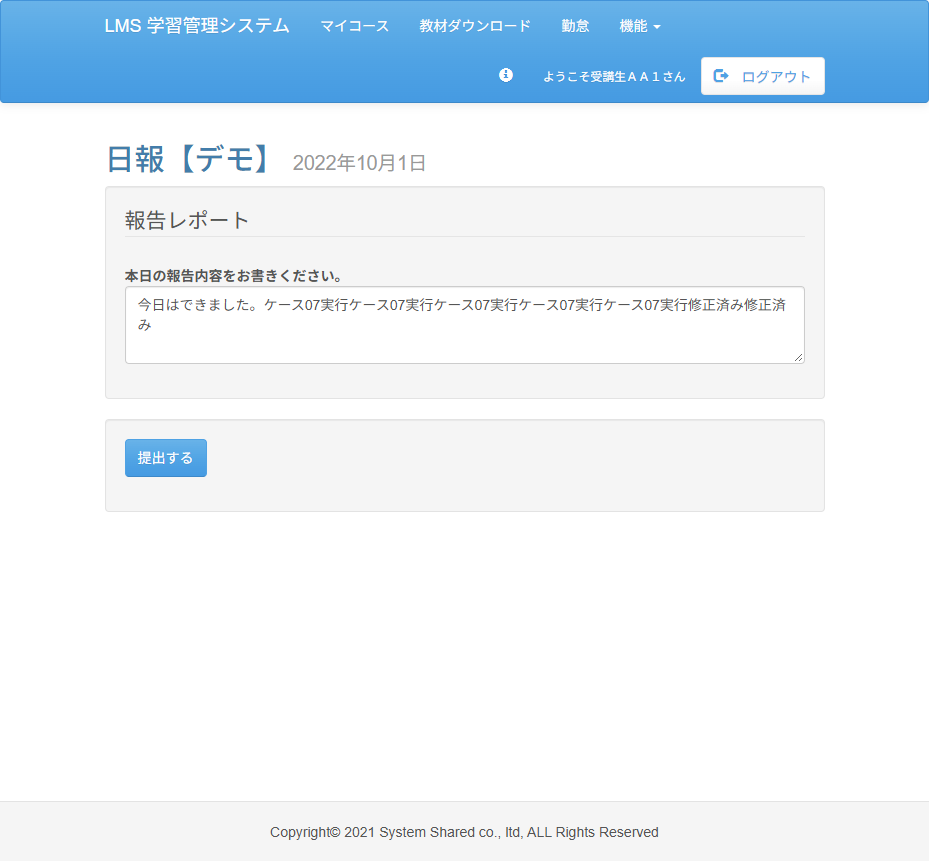
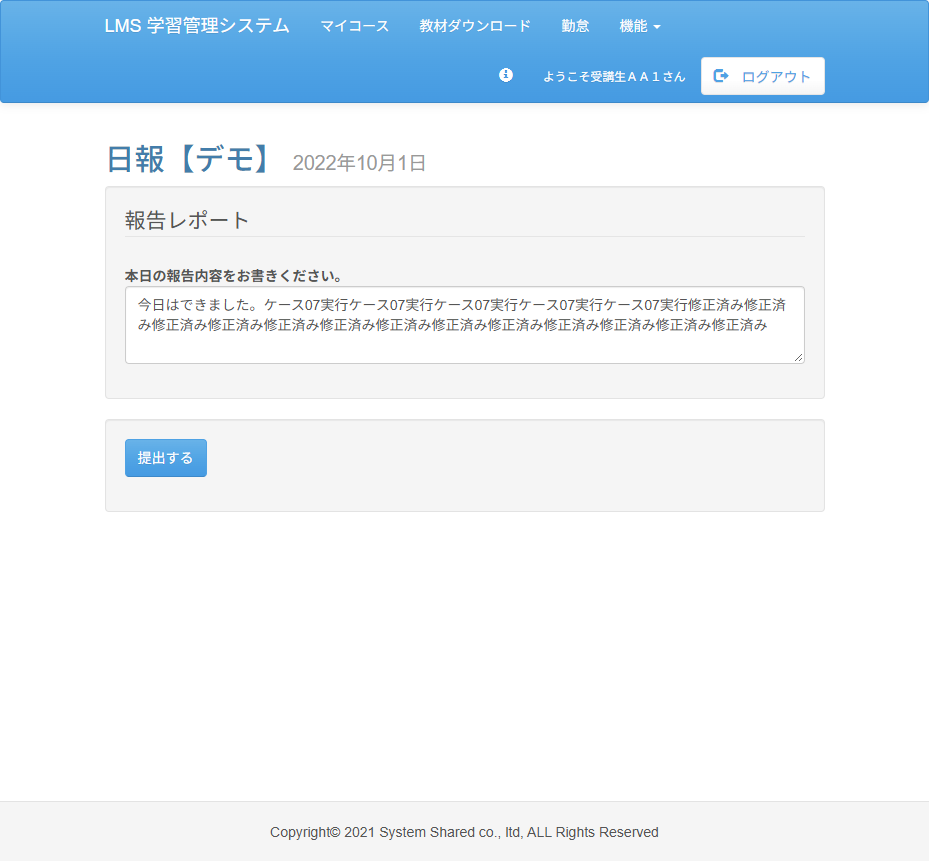
fix:テストケース08 テストコード修正
テストコード全般修正
未完了

Changed region(s): [[0.1561, 0.3624, 0.8116, 0.3926]]

diff --git a/test_code_creation_name/src/test/java/jp/co/sss/lms/ct/f03_report/Case08.java b/test_code_creation_name/src/test/java/jp/co/sss/lms/ct/f03_report/Case08.java
@@ -71,12 +71,15 @@ public class Case08 {
 	@Order(3)
 	@DisplayName("テスト03 提出済の研修日の「詳細」ボタンを押下しセクション詳細画面に遷移")
 	void test03() {
-		List<WebElement> elements = WebDriverUtils.webDriver.findElements(By.xpath("//input[@value='詳細']"));
-		elements.get(0).click();
+		List<WebElement> detailElements = webDriver.findElements(By.className("btn-default"));
+		WebElement deteilNumberElement = detailElements.get(2);
 
-		assertEquals("セクション詳細 | LMS", WebDriverUtils.webDriver.getTitle());
+		deteilNumberElement.click();
 
-		WebDriverUtils.getEvidence(new Object() {
+		String pageTitle = webDriver.getTitle();
+		assertEquals("セクション詳細 | LMS", pageTitle);
+
+		getEvidence(new Object() {
 
 		});
 	}
@@ -85,10 +88,15 @@ public class Case08 {
 	@Order(4)
 	@DisplayName("テスト04 「確認する」ボタンを押下しレポート登録画面に遷移")
 	void test04() {
-		WebDriverUtils.webDriver.findElement(By.xpath("//input[@value='提出済み日報【デモ】を確認する']")).click();
-		WebDriverUtils.getEvidence(new Object() {
+		List<WebElement> submitElements = webDriver.findElements(By.className("btn-default"));
+		WebElement submitNumberElement = submitElements.get(3);
 
-		});
+		scrollTo("document.body.scrollHeight");
+
+		submitNumberElement.click();
+
+		String pageTitle = webDriver.getTitle();
+		assertEquals("レポート登録 | LMS", pageTitle);
 
 	}
 
@@ -96,11 +104,20 @@ public class Case08 {
 	@Order(5)
 	@DisplayName("テスト05 報告内容を修正して「提出する」ボタンを押下しセクション詳細画面に遷移")
 	void test05() {
-		String text = "修正済み";
-		WebDriverUtils.webDriver.findElement(By.xpath("//textarea[@class='form-control']")).sendKeys(text);
-		WebDriverUtils.webDriver.findElement(By.xpath("//button[@type='submit']")).click();
+		final WebElement reportElement = webDriver.findElement(By.id("content_1"));
+		final WebElement submissionElement = webDriver.findElement(By.className("btn-primary"));
 
-		WebDriverUtils.getEvidence(new Object() {
+		scrollTo("document.body.scrollHeight");
+
+		reportElement.clear();
+
+		reportElement.sendKeys("case08Test");
+		submissionElement.click();
+
+		String pageTitle = webDriver.getTitle();
+		assertEquals("セクション詳細 | LMS", pageTitle);
+
+		getEvidence(new Object() {
 
 		});
 
@@ -111,9 +128,15 @@ public class Case08 {
 	@DisplayName("テスト06 上部メニューの「ようこそ○○さん」リンクからユーザー詳細画面に遷移")
 	void test06() {
 
-		WebDriverUtils.webDriver.findElement(By.xpath("//a[@href='/lms/user/detail']")).click();
+		final WebElement userDetailElement = webDriver
+				.findElement(By.cssSelector("a[href=\\\"/lms/user/detail\\\"]\""));
 
-		WebDriverUtils.getEvidence(new Object() {
+		userDetailElement.click();
+
+		String pageTitle = webDriver.getTitle();
+		assertEquals("ユーザー詳細", pageTitle);
+
+		getEvidence(new Object() {
 
 		});
 
@@ -124,10 +147,16 @@ public class Case08 {
 	@DisplayName("テスト07 該当レポートの「詳細」ボタンを押下しレポート詳細画面で修正内容が反映される")
 	void test07() {
 
-		List<WebElement> elements = WebDriverUtils.webDriver.findElements(By.xpath("//input[@value='詳細']"));
-		elements.get(4).click();
+		List<WebElement> detailElements = webDriver.findElements(By.className("btn-default"));
+		WebElement detailButtonElement = detailElements.get(2);
 
-		WebDriverUtils.getEvidence(new Object() {
+		scrollTo("document.body.scrollHeight");
+		detailButtonElement.click();
+
+		String pageTitle = webDriver.getTitle();
+		assertEquals("レポート詳細 | LMS", pageTitle);
+
+		getEvidence(new Object() {
 
 		});
 
